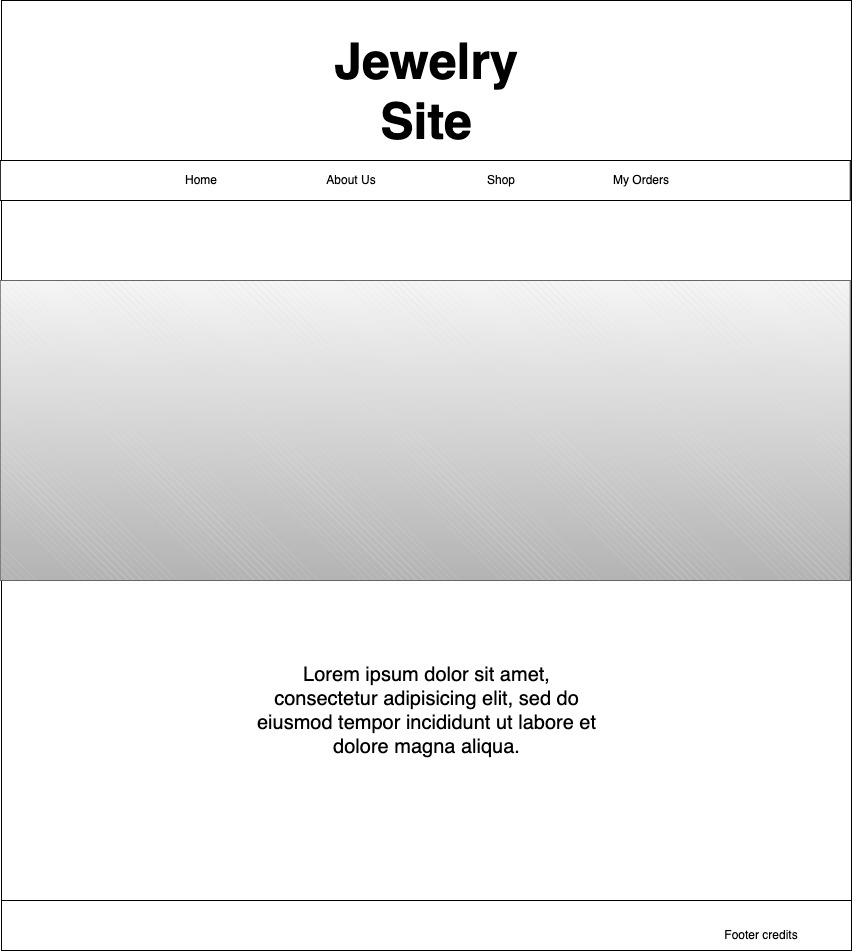
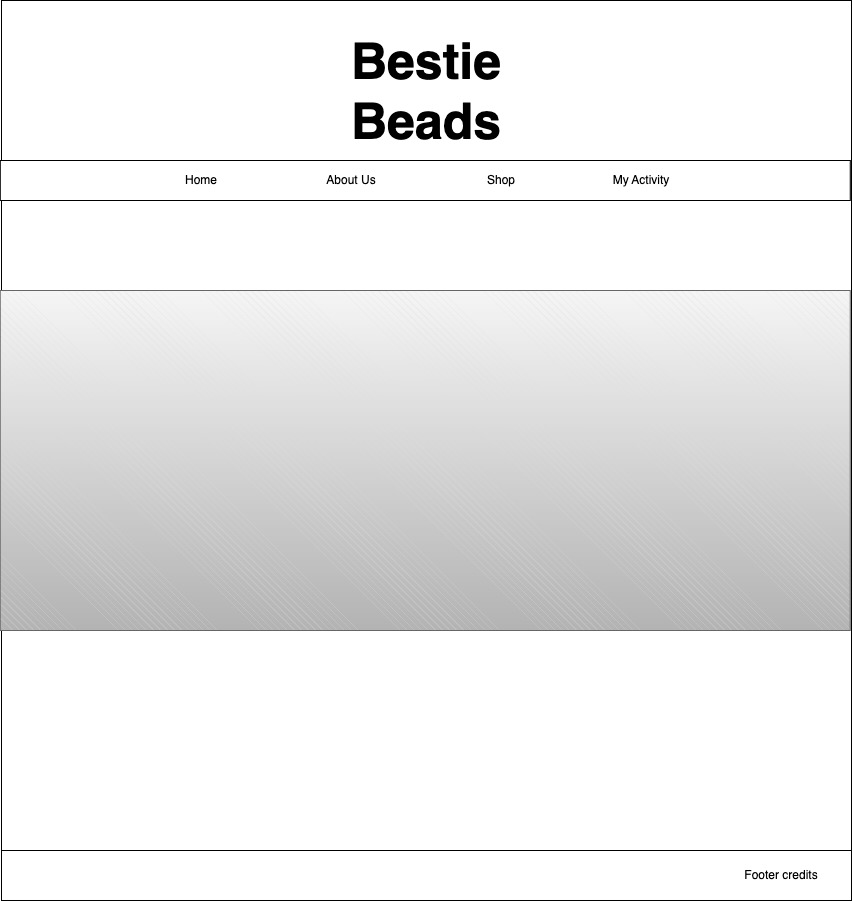
Updated README

diff --git a/README.md b/README.md
@@ -1,7 +1,10 @@
 # eCommerce-Site - Bestie Beads
 <p align="center">
-  <img src="./README_assets/BeadImage.jpg" width="600" height="400" >
+  <img src="./README_assets/Homepage.jpg" width="600" height="500" >
 </p>
+Every tween wants Bestie Beads!  And now with the launch of the Bestie Beads e-commerce website, making all of your beaded technicolor dreams come true is easier than ever! <br>
+The Bestie Beads website is a full-stack e-commerce application that allows customers to view the Bestie Beads bracelet inventory, shop the products, and write product reviews through an engaging, user-friendly interface.
+
 This repository has been created to support the proposal of a jewelry e-commerce website application.  The application backend will contain a database of inventory, customer reviews of pieces, and customer jewelry orders.  The frontend will provide an aesthetically pleasing user interface to learn about the business, browse jewelry offerings, place orders, and write merchandise reviews.    
 
 ## Entity-Relationship Diagram (ERD)
@@ -21,10 +24,33 @@ This repository has been created to support the proposal of a jewelry e-commerce
 <img src="./README_assets/JewelryComponentHierarchy.jpg" width="600" height="600">
 
 ## Technologies
-The jewelry e-commerce site will be a full-stack application utizilizing MongoDB, Express, React, and Node (MERN). 
+The Bestie Beads application is a full-stack application utilizing MongoDB, Express, React, and Node (MERN). Additional technologies used include Mongoose, Axios, and Bootstrap.  
 
-## Trello Board
+## Getting Started
+Project tasks were recorded and managed using the Trello project management tool.<br>
 <a href = "https://trello.com/invite/b/BCP5JFM6/ATTI82ff533d2807444b5fbc662dae480da3C436F047/jewelry-e-commerce-app">Trello Project Management Board</a>
+
+## Explore Bestie Beads
+These are just some of the features of the Bestie Beads application.  <br>
+The Bestie Beads app maintains a collection of product inventory records in MongoDB.  Bracelet information is retrieved from the backend via Axios API calls and rendered on cards with Bootstrap-based formatting. Click on a bracelet card to see more!
+
+<img src="./README_assets/Piecelist.jpg" width="600" height="500" >
+
+On the individual piece's page, the user can view details about the bracelet, add the style to their cart for purchase, or write a review for the product.  The user is assigned an ID kept in local storage.   The items added to the cart are saved in the user's local storage as well. Reviews are stored in the database.  Both reviews and cart products render dynamically by the awesome power of React hooks as changes are made.
+
+<img src="./README_assets/Piecepage.jpg" width="600" height="500" >
+
+On the user's My Activity page, they can view the orders they have created and the reviews they have written.  This data is fetched by the user's ID from the backend database and populated to the frontend components.  Here the user may edit their reviews by either updating or deleting them in the database.
+
+<img src="./README_assets/MyActivity.jpg" width="600" height="500" >
+
+Visit the site and explore more for yourself! 
+
+## Future Updates
+Look out for planned improvements to Bestie Beads including:
+* Login/User profiles
+* Star review ratings
+* Payment system integration
 
 ## Contact Creator
 **Shanda Shaw**<br>
